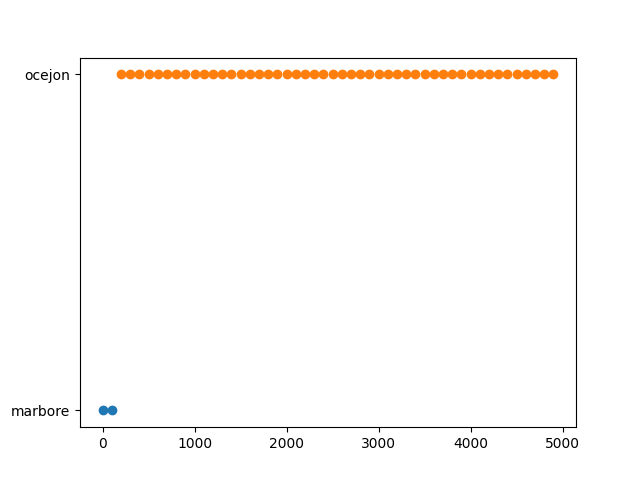
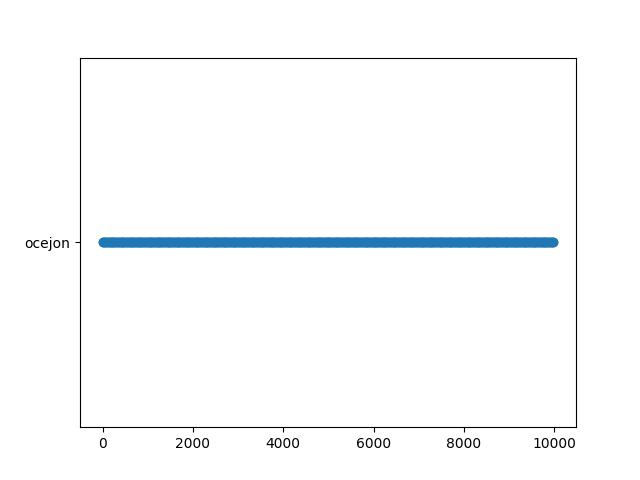
Politica rrobin

diff --git a/triton-endpoint-controller/tservice_lib/src/endpoint_watcher/mod.rs b/triton-endpoint-controller/tservice_lib/src/endpoint_watcher/mod.rs
@@ -1,19 +1,15 @@
 mod service_watcher;
 
-use std::{collections::HashMap, path::PathBuf, str::FromStr}; 
+use std::{collections::HashMap, str::FromStr}; 
 use k8s_openapi::api::core::v1::Pod;
 use log::{debug, info};
 use kube::Client;
-use petgraph::graphmap::DiGraphMap;
-use serde_json::Value as JsonValue;
-use tokio::{
-    fs, 
-    sync::{mpsc, oneshot}
-};
+
+use tokio::sync::{mpsc, oneshot};
 use service_watcher::ServiceWatcher;
 use crate::policy::Policy;
 use uuid::Uuid;
-use anyhow::{Context, Result};
+use anyhow::Context;
 
 const CHANNEL_SIZE: usize = 128;
 
@@ -23,7 +19,6 @@ pub enum Message {
     DeleteService  { service_uid: Uuid },
     PodReady { service_uid: Uuid, pod: Pod },
     PodUnready { service_uid: Uuid, pod: Pod },
-    LoadGraphFromFile { file: PathBuf },
     ExportGraph { service_uid: Uuid, response_to: oneshot::Sender<String> }
 }
 
@@ -61,12 +56,6 @@ pub fn run<T: Policy>(client: Client) -> mpsc::Sender<Message> {
                     if let Some(service) = service_watchers.get_mut(&service_uid) {
                         info!("Deleted por for service {service_uid}");
                         service.remove_pod(pod).expect("AAA");
-                    }
-                },
-                Message::LoadGraphFromFile { file } => {
-                    match parse_graph_file(&mut service_watchers, file).await {
-                        Ok(_) => log::info!("Succesfully applied graph file."),
-                        Err(e) => log::error!("Failed to parse graph file: {e}")
                     }
                 },
                 Message::ExportGraph { service_uid, response_to } => {
@@ -116,41 +105,3 @@ async fn graph_export_server(sender: mpsc::Sender<Message>) {
     server.listen("0.0.0.0:9091").await.expect("HTTP server ended.");
 
 }
-
-async fn parse_graph_file<T>(services: &mut HashMap<Uuid, ServiceWatcher<T>>, file: PathBuf) -> Result<()>
-    where T: Policy
-{
-
-    let content = fs::read_to_string(file).await?;
-    let parsed: JsonValue = serde_json::from_str(&content)?;
-    
-    let service_uid: Uuid = parsed.get("service_uuid")
-        .context("Json missing key 'service_uuid'.")?
-        .as_str()
-        .context("Invalid value for key 'service_uuid'.")?
-        .try_into()?;
-
-    let dot_content = parsed.get("graph")
-        .context("Json missing key 'graph'.")?
-        .as_str().unwrap();
-
-    let mut g: DiGraphMap<Uuid, ()> = DiGraphMap::new();
-    let parser = rust_dot::parse_string(dot_content);
-    
-    for node in &parser.nodes {
-        let uid = Uuid::from_str(node)?;
-        g.add_node(uid);
-    }
-
-    for edge in &parser.edges {
-        let src = Uuid::from_str(parser.nodes.get(edge.0).unwrap())?;
-        let dst = Uuid::from_str(parser.nodes.get(edge.1).unwrap())?;
-
-        g.add_edge(src, dst, ());
-    }
-
-    let service = services.get_mut(&service_uid)
-        .with_context(|| format!("Service {service_uid} not found."))?; 
-    service.set_graph(g)
-}
-

diff --git a/proxy-client/pruebas.py b/proxy-client/pruebas.py
@@ -80,8 +80,8 @@ def gen_pod_json(namespace):
 
 def launch_client(args, thread_id: int, output_vec: list[str]):
     
-    prioridad = 1
-    accuracy = 0
+    prioridad = 10000
+    accuracy = 60 
 
     output = subprocess.check_output([
         "python3",
@@ -99,6 +99,7 @@ def launch_client(args, thread_id: int, output_vec: list[str]):
     output += "\nPrioridad: " + str(prioridad)
     output += "\nAccuracy: " + str(accuracy)
     print(f"Thread {thread_id} finished") 
+    print(output)
     output_vec[thread_id] = output
 
 class InferenceResult:
@@ -107,6 +108,8 @@ class InferenceResult:
     route: str
     prioridad: int
     accuracy: int
+    t_inferencia: int
+    t_pprocesado: int
 
     def __init__(self):
         self.total_ms = None
@@ -114,7 +117,8 @@ class InferenceResult:
         self.route = None
         self.prioridad = None
         self.accuracy = None
-        pass
+        self.t_inferencia = None
+        self.t_pprocesado = None
     
 def parse_result(c: str, pods) -> InferenceResult:
     lines = [line.split(":") for line in c.splitlines() if len(line) > 0]
@@ -125,7 +129,7 @@ def parse_result(c: str, pods) -> InferenceResult:
         right = line[1].strip()
         
         if left == "Took":
-            result.total_ms = float(right[:-3])
+            result.total_ms = round(float(right[:-3]), 2)
         elif left == "Model":
             result.model = right
         elif left == "Route":
@@ -136,6 +140,10 @@ def parse_result(c: str, pods) -> InferenceResult:
             result.prioridad = int(right)
         elif left == "Accuracy":
             result.accuracy = int(right)
+        elif left == "Tiempo inferencia (ms)":
+            result.t_inferencia = round(float(right), 2)
+        elif left == "Tiempo preprocesado (ms)":
+            result.t_pprocesado = round(float(right), 2)
 
     return result
 
@@ -165,7 +173,7 @@ def pruebas(args):
         if res.route is None:
             print(f"Thread: {thread_id} failed")
         else:
-            print(f"Thread {thread_id}: {res.total_ms}ms, {res.route}")
+            print(f"Thread {thread_id}: {res.total_ms}ms (inf: {res.t_inferencia}ms, pproc: {res.t_pprocesado}ms), {res.route}")
             times.append(res.total_ms)
             node = res.route.split("->")[-1]
             try:

diff --git a/triton-proxy/triton_proxy/src/policies/rrobin.rs b/triton-proxy/triton_proxy/src/policies/rrobin.rs
@@ -1,0 +1,54 @@
+use anyhow::Result;
+use itertools::Itertools;
+use tokio::sync::Mutex;
+use triton_proxy_lib::{policy::{Policy, Request}, server::Endpoints};
+use uuid::Uuid;
+use super::{process_locally, read_models, Model, SimpleContext, TritonEndpoints, TritonRequest};
+
+#[derive(Debug, Default)]
+pub struct Rrobin {
+    pod_name: String,
+    models: Vec<Model>,
+    siguiente: Mutex<usize>
+}
+
+impl Rrobin {
+    pub fn new(path: &str, pod_name: String) -> Result<Self> {
+        Ok(Self {
+            pod_name, 
+            siguiente: Mutex::new(0),
+            models: read_models(path)?
+        })
+    }
+}
+
+impl Policy<SimpleContext> for Rrobin {
+    async fn choose_target(&self, request: &TritonRequest, endpoints: &TritonEndpoints) -> Uuid {
+
+        if request.jumps == 0 {
+            let mut siguiente = self.siguiente.lock().await;
+            let ind = *siguiente;
+            *siguiente =  siguiente.wrapping_add(1);
+            drop(siguiente);
+            
+            let n_endps = endpoints.len();
+            *endpoints.iter().nth(ind % n_endps).unwrap().0
+        }
+        else {
+            log::info!("Sending request to local pod ({})", self.pod_name);
+            *endpoints.iter()
+                .filter(|(_, ep)| ep.name.as_ref() == self.pod_name.as_str())
+                .exactly_one()
+                .unwrap().0
+        }
+    }
+
+    async fn process_locally(&self, request: &TritonRequest) -> Result<Vec<u8>> {
+
+        let model = self.models.iter()
+            .min_by_key(|m| m.perf)
+            .unwrap();
+
+        process_locally(&request, model).await
+    }
+}

diff --git a/triton-endpoint-controller/tservice_lib/src/endpoint_watcher/service_watcher.rs b/triton-endpoint-controller/tservice_lib/src/endpoint_watcher/service_watcher.rs
@@ -3,7 +3,7 @@ use super::Message;
 use std::collections::BTreeMap;
 use std::str::FromStr;
 use std::sync::Arc;
-use anyhow::{anyhow, Context, Result};
+use anyhow::{Context, Result};
 use futures::TryStreamExt;
 use k8s_openapi::api::core::v1::Pod;
 use k8s_openapi::Metadata;
@@ -116,35 +116,6 @@ impl<T: Policy> ServiceWatcher<T> {
             self.notify_pods(&affected);
         }
 
-        Ok(())
-    }
-
-    pub fn set_graph(&mut self, graph: DiGraphMap<Uuid, ()>) -> Result<()> {
-        
-        if self.pods.len() != graph.node_count() {
-            return Err(anyhow!("
-                The number of pods in the graph ({}) and the number
-                of registered pods in the service ({}) is not the same.",
-                graph.node_count(),
-                self.pods.len()
-            ));
-        }
-        
-        let invalid_nodes: Vec<Uuid> = graph.nodes()
-            .filter(|node| !self.pods.contains_key(node))
-            .collect();
-
-        if invalid_nodes.len() > 0 {
-            return Err(anyhow!(
-                "The following Uuid don't match any pod in the service: {:?}",
-                invalid_nodes)
-            );
-        }
-
-        self.pod_graph = graph;
-        for pod in self.pods.values() {
-            self.notify_pod(&pod);
-        }
         Ok(())
     }
 

diff --git a/triton-endpoint-controller/tservice_lib/src/lib.rs b/triton-endpoint-controller/tservice_lib/src/lib.rs
@@ -1,34 +1,12 @@
-use std::{path::Path, time::Duration};
-
-use endpoint_watcher::Message;
 use kube::Client;
 use policy::Policy;
-use tokio::{sync::mpsc::Sender, time::sleep};
 
 mod controller;
 mod endpoint_watcher;
 pub mod policy;
 
-pub fn run<T: Policy>(client: Client, initial_grap_file: &str) {
+pub fn run<T: Policy>(client: Client) {
 
     let msg_sender = endpoint_watcher::run::<T>(client.clone());
     controller::run(client.clone(), msg_sender.clone());
-    check_for_graph_file(initial_grap_file, &msg_sender);
-}
-
-fn check_for_graph_file(path: &str, sender: &Sender<Message>) {
-
-    let path = Path::new(path);
-    if !path.exists() { log::warn!("File ./graph.json not found."); }
-    else {
-        log::info!("Found graph.json file.");
-        let sender = sender.clone();
-        let path = path.to_owned();
-        tokio::spawn(async move {
-            sleep(Duration::from_secs(2)).await;
-            sender.send(Message::LoadGraphFromFile { file: path })
-                .await
-                .expect("Failed to load graph file: could not send message.");
-        });
-    }
 }

diff --git a/triton-proxy/triton_proxy/src/main.rs b/triton-proxy/triton_proxy/src/main.rs
@@ -6,8 +6,7 @@ use kube::{Client, Config};
 use log::{error, info};
 use anyhow::{anyhow, Context, Result};
 use policies::{
-    SimpleContext,
-    requisitos::Requisitos
+    requisitos::Requisitos, rrobin::Rrobin, SimpleContext
 };
 use triton_proxy_lib::metrics::Metric;
 use uuid::Uuid;
@@ -37,11 +36,12 @@ async fn main() -> Result<()> {
     };
 
     let (pod_namespace, pod_name, pod_uuid) = get_env_vars()?;
-    let policy = Requisitos::new(CSV_MODELOS)?;
+    //let policy = Requisitos::new(CSV_MODELOS)?;
+    let policy = Rrobin::new(CSV_MODELOS, pod_name.clone())?;
     let metrics = get_target_metrics();
     match client {
         Ok(client) => {
-            triton_proxy_lib::main_task::<Requisitos, SimpleContext>(
+            triton_proxy_lib::main_task::<Rrobin, SimpleContext>(
                 client,
                 pod_namespace,
                 pod_name,

diff --git a/triton-proxy/triton_proxy/src/policies/min_latencia.rs b/triton-proxy/triton_proxy/src/policies/min_latencia.rs
@@ -42,13 +42,12 @@ impl Policy<SimpleContext> for MinLatencia {
     }
 }
 
-impl<'a> MinLatencia {
-     fn choose_model(&'a self, _request: &Request<SimpleContext>) -> &'a Model {
+impl MinLatencia {
+     fn choose_model(&self, _request: &Request<SimpleContext>) -> &Model {
         self.models.iter()
             .max_by_key(|model| model.perf)
             .unwrap()
      }
-
 }
 
 /// Devuelve 0 si no se ha usado nunca.

diff --git a/triton-endpoint-controller/tservice_controller/src/policies/from_file.rs b/triton-endpoint-controller/tservice_controller/src/policies/from_file.rs
@@ -44,7 +44,7 @@ impl Policy for FromFile {
     fn pod_added(&mut self, graph: &mut GraphWrapper, pods: &PodMap, pod: Uuid) -> Vec<Uuid> {
         
         if !self.target_graph.contains_node(pod) {
-            log::warn!("The service does not container pod {pod}");
+            log::warn!("The service does not contain pod {pod}");
             return Vec::new();
         }
         

diff --git a/triton-endpoint-controller/tservice_controller/src/main.rs b/triton-endpoint-controller/tservice_controller/src/main.rs
@@ -33,7 +33,7 @@ async fn main() -> Result<()> {
         
         Ok(client) => {
             
-            tservice_lib::run::<POLICY>(client, "./graph.json");
+            tservice_lib::run::<POLICY>(client);
             tokio::signal::ctrl_c().await.unwrap();
             Ok(())
         },

diff --git a/triton-proxy/triton_proxy_lib/src/hardware.rs b/triton-proxy/triton_proxy_lib/src/hardware.rs
@@ -15,7 +15,7 @@ pub struct SystemInfo {
 
 impl ToString for SystemInfo {
     fn to_string(&self) -> String {
-        serde_json::to_string(self).unwrap()
+        serde_json::to_string_pretty(self).unwrap()
     }
 }
 

diff --git a/triton-proxy/triton_proxy/src/policies/mod.rs b/triton-proxy/triton_proxy/src/policies/mod.rs
@@ -3,6 +3,7 @@ pub mod random;
 pub mod min_latencia;
 pub mod min_queue;
 pub mod requisitos;
+pub mod rrobin;
 
 use std::time::Instant;
 
